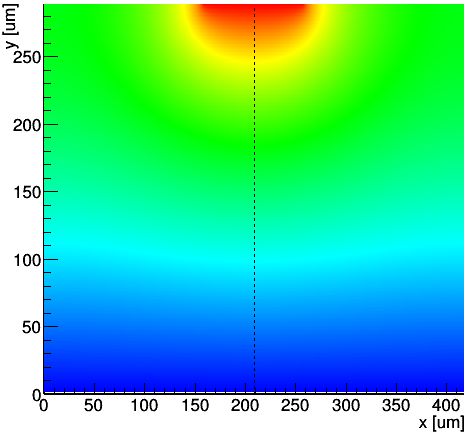
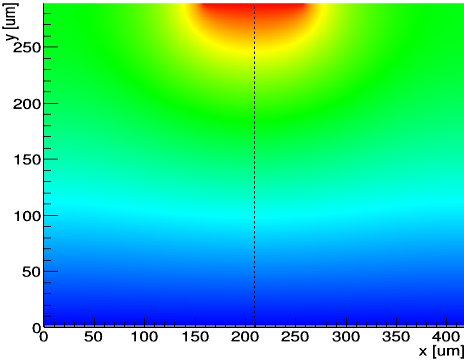
rescale figure

diff --git a/slides/slides.tex b/slides/slides.tex
@@ -582,8 +582,8 @@ Perform this process \textcolor{red}{two times}
   \fontsize{10pt}{7.2}\selectfont
 
 
-  Strip potential = 200V, detector width = 300$\mu$m, strip length = 100 $\mu$m, strip width = 20 $\mu$m,
-  inter-strips distance = 50 $\mu$m, max relative error = 0.9$\%$
+  Strip potential = 200V, detector width = 300$\mu$m, strip length = 100$\mu$m, strip width = 20$\mu$m,
+  inter-strips distance = 100$\mu$m, max relative error = 0.9$\%$
 
   \vspace{-2em}
 
@@ -606,8 +606,8 @@ Perform this process \textcolor{red}{two times}
   \fontsize{10pt}{7.2}\selectfont
 
 
-  Strip potential = 200V, detector width = 300$\mu$m, strip length = 100 $\mu$m, strip width = 20 $\mu$m,
-  inter-strips distance = 50 $\mu$m, max relative error = 0.9$\%$
+  Strip potential = 200V, detector width = 300$\mu$m, strip length = 100$\mu$m, strip width = 20$\mu$m,
+  inter-strips distance = 100$\mu$m, max relative error = 0.9$\%$
 
   \vspace{-2em}
 
@@ -631,7 +631,7 @@ Perform this process \textcolor{red}{two times}
 
 
   Detector width = 200 $\mu$m, strip length = 50 $\mu$m, strip width = 50 $\mu$m,
-	inter strips distance = 50$\mu$m, number of strips = 3, potential = 10V,
+	inter strips distance = 100$\mu$m, number of strips = 3, potential = 10V,
 	max relative error = 0.9$\%$
 
   \begin{center}
@@ -654,7 +654,7 @@ Perform this process \textcolor{red}{two times}
 
 
   Detector width = 200 $\mu$m, strip length = 50 $\mu$m, strip width = 50 $\mu$m,
-	inter strips distance = 50$\mu$m, number of strips = 3, potential = 10V,
+	inter strips distance = 100$\mu$m, number of strips = 3, potential = 10V,
 	max relative error = 0.9$\%$
 
   \begin{center}
